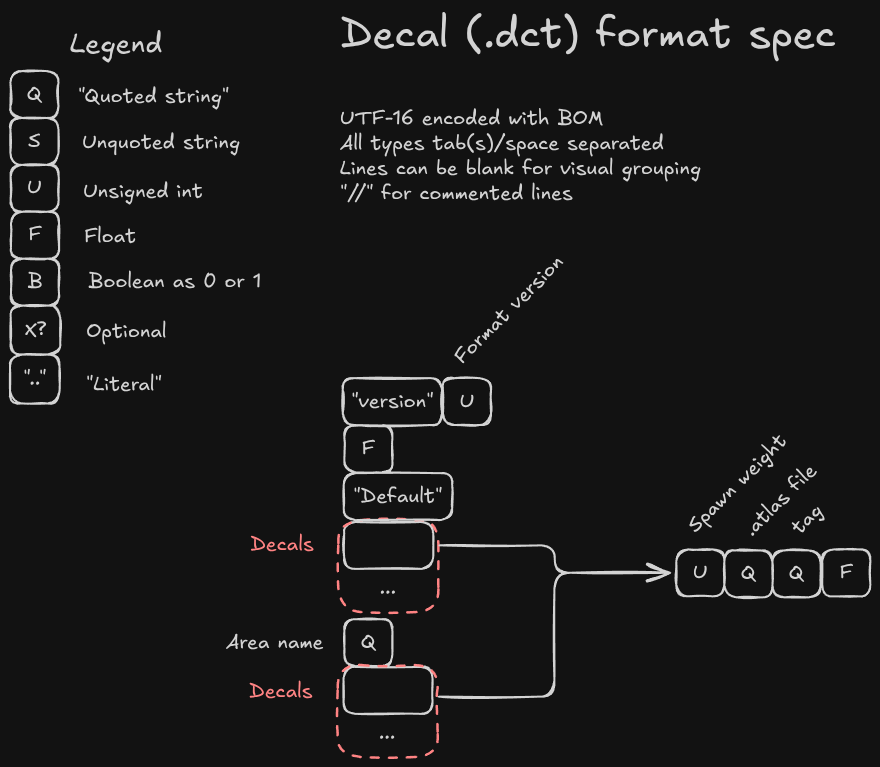
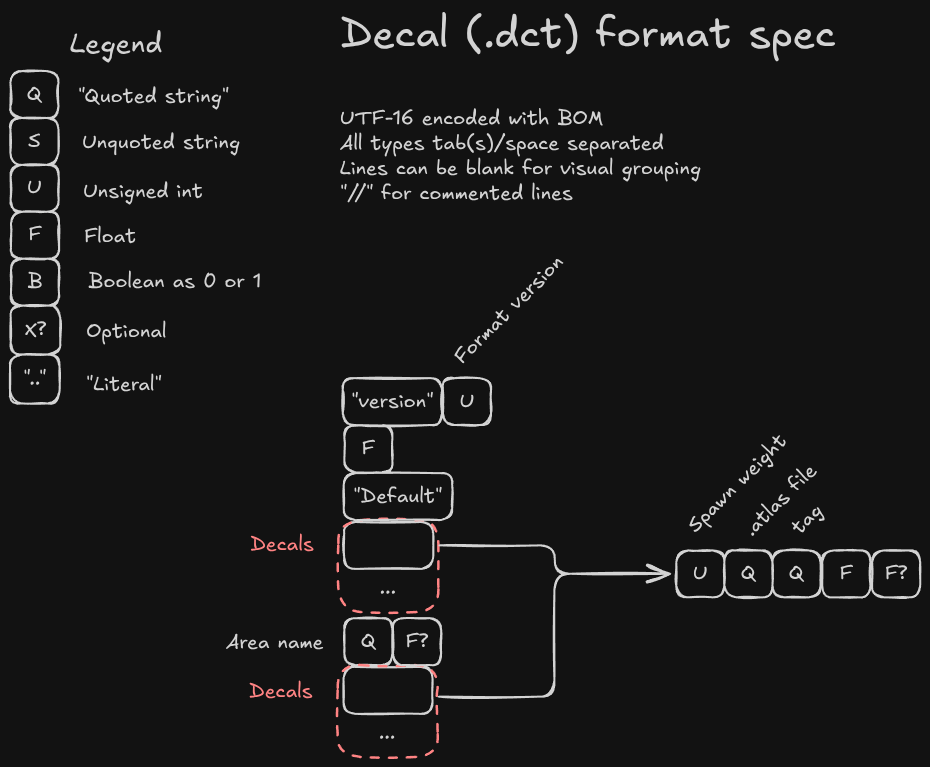
Update DCT with poe2

diff --git a/src/file_parsers/dct/parser.rs b/src/file_parsers/dct/parser.rs
@@ -2,7 +2,7 @@ use anyhow::{Result, anyhow};
 use winnow::{
     Parser,
     ascii::{dec_uint, float, space1},
-    combinator::{preceded as P, repeat},
+    combinator::{opt, preceded as P, repeat},
     token::literal,
 };
 
@@ -18,22 +18,35 @@ fn entry<'a>() -> impl WinnowParser<&'a str, Entry> {
         P(space1, quoted('"').and_then(filename("atlas"))),
         P(space1, quoted_str),
         P(space1, float),
+        opt(P(space1, float)),
     )
-        .map(|(weight, atlas_file, tag, float)| Entry {
+        .map(|(weight, atlas_file, tag, float1, float2)| Entry {
             weight,
             atlas_file,
             tag,
-            float,
+            float1,
+            float2,
         })
         .trace("entry")
 }
 
+fn header<'a>() -> impl WinnowParser<&'a str, (String, Option<f32>)> {
+    (
+        quoted_str, //
+        opt(P(space1, float)),
+    )
+}
+
 fn group<'a>() -> impl SliceParser<'a, &'a str, Group> {
     (
-        lift(quoted_str), //
+        lift(header()), //
         repeat(0.., lift(entry())),
     )
-        .map(|(area, entries)| Group { area, entries })
+        .map(|((area, float), entries)| Group {
+            area,
+            float,
+            entries,
+        })
         .trace("group")
 }
 
@@ -42,7 +55,11 @@ fn default_group<'a>() -> impl SliceParser<'a, &'a str, Group> {
         lift(literal("Default").map(String::from)), //
         repeat(0.., lift(entry())),
     )
-        .map(|(area, entries)| Group { area, entries })
+        .map(|(area, entries)| Group {
+            area,
+            float: None,
+            entries,
+        })
         .trace("default_group")
 }
 
@@ -50,7 +67,7 @@ pub fn parse_dct_str(contents: &str) -> Result<DCTFile> {
     let lines = contents
         .lines()
         .map(|l| l.trim())
-        .filter(|l| !l.is_empty() && !l.starts_with("#"))
+        .filter(|l| !l.is_empty() && !l.starts_with("//"))
         .collect::<Vec<_>>();
     let mut lines = lines.as_slice();
 

diff --git a/src/file_parsers/dct/types.rs b/src/file_parsers/dct/types.rs
@@ -5,12 +5,14 @@ pub struct Entry {
     pub weight: u32,
     pub atlas_file: String,
     pub tag: String,
-    pub float: f32,
+    pub float1: f32,
+    pub float2: Option<f32>,
 }
 
 #[derive(Debug, Serialize)]
 pub struct Group {
     pub area: String,
+    pub float: Option<f32>,
     pub entries: Vec<Entry>,
 }
 
